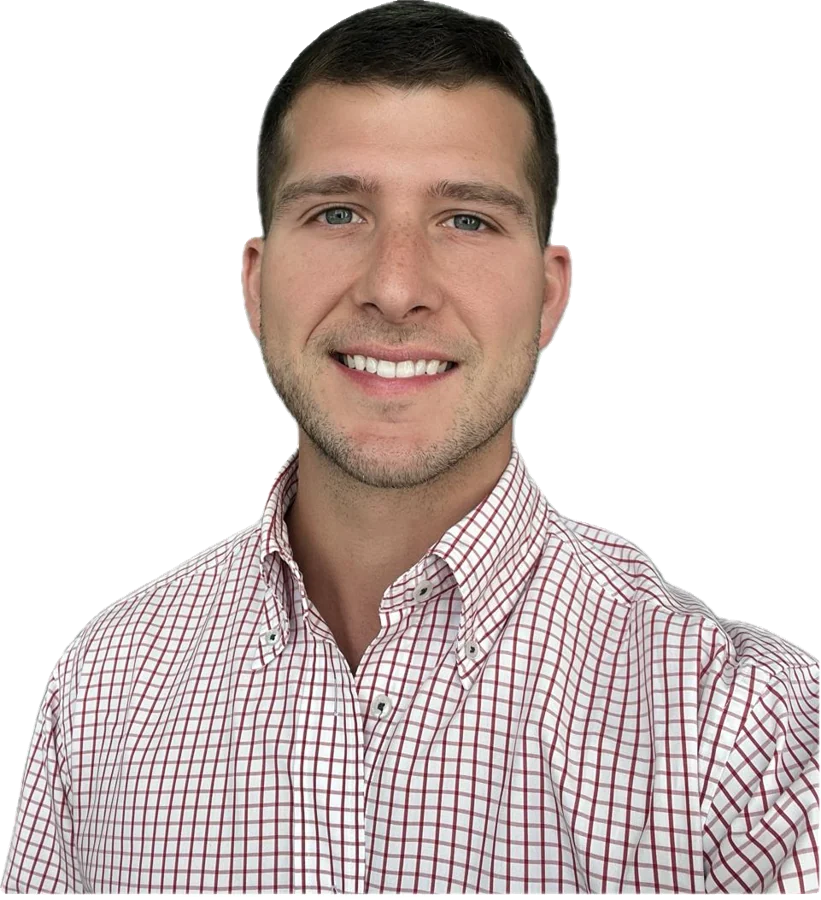
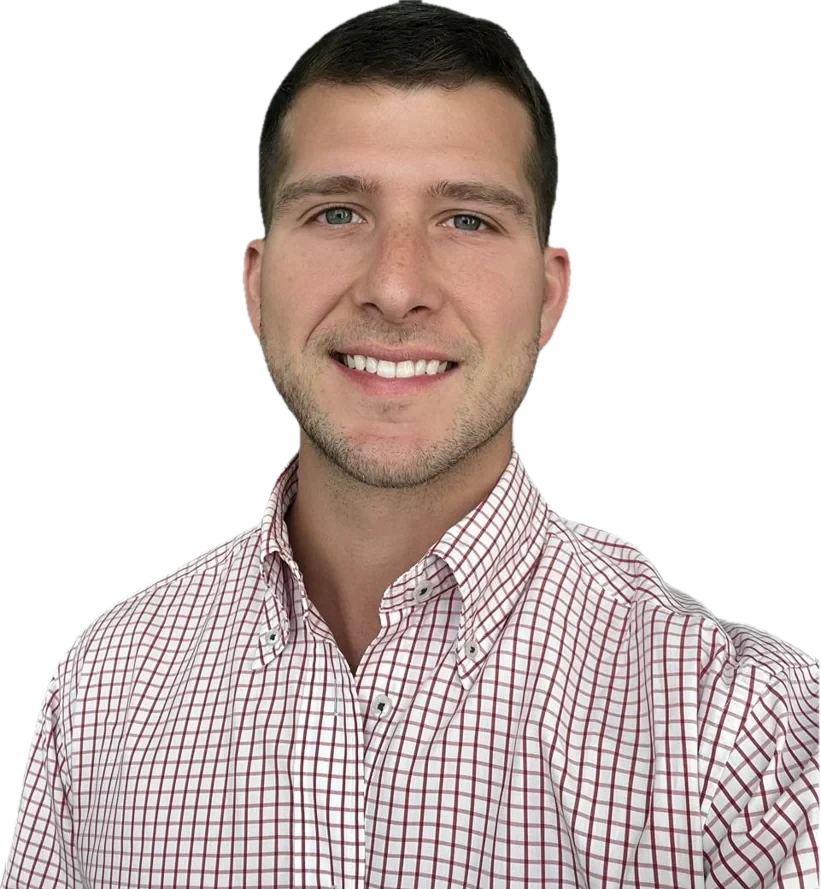
Pulido: margen de $9 vs sano de $15, foto sin halo, pie completo, robots, sitemap y 404
- Ejemplo de $100 con los números de Alonso (ads 20%, devoluciones 5%, comisión 15%) y marca de margen sano
- Recorte de la foto limpio (sin borde blanco) y hombros a sangre en el marco
- Pie con contacto y navegación, enlace para saltar al contenido, titulares balanceados
- robots.txt, sitemap.xml con hreflang y página 404 propia en ES/EN

Claude-Session: https://claude.ai/code/session_011gzkCB5M2z7pKPoQn8zKpx

diff --git a/index.html b/index.html
@@ -32,6 +32,7 @@
 <script defer src="/_vercel/insights/script.js"></script>
 </head>
 <body>
+<a class="skip" href="#inicio">Saltar al contenido</a>
 
 <header class="header">
   <div class="wrap">
@@ -96,7 +97,7 @@
             <use href="#sx-bars" fill="#F58238" clip-path="url(#sx-hero-clip)"></use>
           </g>
         </svg>
-        <img class="portrait__img" src="/assets/alonso.webp" width="821" height="900" alt="Alonso Martini, fundador de Sellify" fetchpriority="high">
+        <img class="portrait__img" src="/assets/alonso.webp" width="821" height="889" alt="Alonso Martini, fundador de Sellify" fetchpriority="high">
       </div>
       <figcaption class="portrait__caption">
         <span><b>Alonso Martini</b>, fundador</span>
@@ -130,17 +131,18 @@
 
     <figure class="pl" aria-labelledby="pl-title">
       <h3 class="pl__title" id="pl-title">De cada $100 que vendes en Amazon, ¿cuánto te queda?</h3>
-      <ol class="pl__rows">
+      <ol class="pl__rows" style="--goal:15">
         <li class="pl__row pl__row--sale" style="--from:0;--to:100"><span class="pl__label">Venta</span><span class="pl__bar" aria-hidden="true"><i></i></span><span class="pl__amt">$100</span></li>
         <li class="pl__row" style="--from:72;--to:100"><span class="pl__label">Costo del producto</span><span class="pl__bar" aria-hidden="true"><i></i></span><span class="pl__amt">−$28</span></li>
         <li class="pl__row" style="--from:57;--to:72"><span class="pl__label">Comisión de Amazon</span><span class="pl__bar" aria-hidden="true"><i></i></span><span class="pl__amt">−$15</span></li>
-        <li class="pl__row" style="--from:43;--to:57"><span class="pl__label">Envío FBA</span><span class="pl__bar" aria-hidden="true"><i></i></span><span class="pl__amt">−$14</span></li>
-        <li class="pl__row" style="--from:30;--to:43"><span class="pl__label">Publicidad</span><span class="pl__bar" aria-hidden="true"><i></i></span><span class="pl__amt">−$13</span></li>
-        <li class="pl__row" style="--from:24;--to:30"><span class="pl__label">Devoluciones y almacenamiento</span><span class="pl__bar" aria-hidden="true"><i></i></span><span class="pl__amt">−$6</span></li>
-        <li class="pl__row pl__row--margin" style="--from:0;--to:24"><span class="pl__label">Lo que te queda</span><span class="pl__bar" aria-hidden="true"><i></i></span><span class="pl__amt">$24</span></li>
+        <li class="pl__row" style="--from:37;--to:57"><span class="pl__label">Envío FBA</span><span class="pl__bar" aria-hidden="true"><i></i></span><span class="pl__amt">−$20</span></li>
+        <li class="pl__row" style="--from:17;--to:37"><span class="pl__label">Publicidad</span><span class="pl__bar" aria-hidden="true"><i></i></span><span class="pl__amt">−$20</span></li>
+        <li class="pl__row" style="--from:12;--to:17"><span class="pl__label">Devoluciones</span><span class="pl__bar" aria-hidden="true"><i></i></span><span class="pl__amt">−$5</span></li>
+        <li class="pl__row" style="--from:9;--to:12"><span class="pl__label">Almacenamiento y otros cargos</span><span class="pl__bar" aria-hidden="true"><i></i></span><span class="pl__amt">−$3</span></li>
+        <li class="pl__row pl__row--margin" style="--from:0;--to:9"><span class="pl__label">Lo que te queda</span><span class="pl__bar" aria-hidden="true"><i></i><span class="pl__goal"><span>Margen sano: $15</span></span></span><span class="pl__amt">$9</span></li>
       </ol>
       <figcaption class="pl__foot">
-        <p class="pl__punch">Amazon te muestra los $100. Nosotros trabajamos para que crezcan los $24.</p>
+        <p class="pl__punch">Amazon te muestra los $100. Te quedan $9, cuando un margen sano ronda los $15. Cerrar esa diferencia es nuestro trabajo.</p>
         <p class="pl__note">Ejemplo ilustrativo de un producto vendido con FBA en Amazon Estados Unidos. El reparto real de cada producto aparece en tu P&amp;L.</p>
       </figcaption>
     </figure>
@@ -363,14 +365,23 @@
 </main>
 
 <footer class="footer">
-  <div class="wrap">
-    <div class="footer__id">
-      <span class="brand__word">SELLIFY</span>
-      <span>© 2026 Sellify Agency. Operado por Cortafuegos LLC.</span>
+  <div class="wrap footer__grid">
+    <div class="footer__brand">
+      <a href="#inicio" class="brand" aria-label="Sellify, inicio"><svg width="16" height="21" viewBox="0 -4 548 708" aria-hidden="true"><use href="#sx-mark"></use></svg><span class="brand__word">SELLIFY</span></a>
+      <p>Agencia de Amazon para marcas que quieren crecer sin perder margen, en Estados Unidos y Europa.</p>
     </div>
-    <nav aria-label="Pie de página">
-      <a href="#casos">Casos</a><a href="#como-funciona">Cómo funciona</a><a href="#preguntas">Preguntas</a><a href="mailto:alonso@sellify-agency.com">Contacto</a>
+    <nav class="footer__col" aria-label="Pie de página">
+      <p class="footer__h">Sitio</p>
+      <a href="#casos">Casos</a><a href="#como-funciona">Cómo funciona</a><a href="#dashboard">Dashboard</a><a href="#preguntas">Preguntas</a>
     </nav>
+    <div class="footer__col">
+      <p class="footer__h">Contacto</p>
+      <a href="https://wa.me/34627071754">WhatsApp +34 627 07 17 54</a><a href="tel:+17868247458">Llamadas +1 786 824 7458</a><a href="mailto:alonso@sellify-agency.com">alonso@sellify-agency.com</a>
+    </div>
+  </div>
+  <div class="wrap footer__legal">
+    <span>© 2026 Sellify Agency. Operado por Cortafuegos LLC.</span>
+    <a href="/en/" hreflang="en" lang="en" data-set-lang="en">English</a>
   </div>
 </footer>
 

diff --git a/en/index.html b/en/index.html
@@ -32,6 +32,7 @@
 <script defer src="/_vercel/insights/script.js"></script>
 </head>
 <body>
+<a class="skip" href="#top">Skip to content</a>
 
 <header class="header">
   <div class="wrap">
@@ -96,7 +97,7 @@
             <use href="#sx-bars" fill="#F58238" clip-path="url(#sx-hero-clip)"></use>
           </g>
         </svg>
-        <img class="portrait__img" src="/assets/alonso.webp" width="821" height="900" alt="Alonso Martini, founder of Sellify" fetchpriority="high">
+        <img class="portrait__img" src="/assets/alonso.webp" width="821" height="889" alt="Alonso Martini, founder of Sellify" fetchpriority="high">
       </div>
       <figcaption class="portrait__caption">
         <span><b>Alonso Martini</b>, founder</span>
@@ -130,17 +131,18 @@
 
     <figure class="pl" aria-labelledby="pl-title">
       <h3 class="pl__title" id="pl-title">Out of every $100 you sell on Amazon, how much do you keep?</h3>
-      <ol class="pl__rows">
+      <ol class="pl__rows" style="--goal:15">
         <li class="pl__row pl__row--sale" style="--from:0;--to:100"><span class="pl__label">Sale</span><span class="pl__bar" aria-hidden="true"><i></i></span><span class="pl__amt">$100</span></li>
         <li class="pl__row" style="--from:72;--to:100"><span class="pl__label">Product cost</span><span class="pl__bar" aria-hidden="true"><i></i></span><span class="pl__amt">−$28</span></li>
         <li class="pl__row" style="--from:57;--to:72"><span class="pl__label">Amazon referral fee</span><span class="pl__bar" aria-hidden="true"><i></i></span><span class="pl__amt">−$15</span></li>
-        <li class="pl__row" style="--from:43;--to:57"><span class="pl__label">FBA fulfillment</span><span class="pl__bar" aria-hidden="true"><i></i></span><span class="pl__amt">−$14</span></li>
-        <li class="pl__row" style="--from:30;--to:43"><span class="pl__label">Advertising</span><span class="pl__bar" aria-hidden="true"><i></i></span><span class="pl__amt">−$13</span></li>
-        <li class="pl__row" style="--from:24;--to:30"><span class="pl__label">Returns and storage</span><span class="pl__bar" aria-hidden="true"><i></i></span><span class="pl__amt">−$6</span></li>
-        <li class="pl__row pl__row--margin" style="--from:0;--to:24"><span class="pl__label">What you keep</span><span class="pl__bar" aria-hidden="true"><i></i></span><span class="pl__amt">$24</span></li>
+        <li class="pl__row" style="--from:37;--to:57"><span class="pl__label">FBA fulfillment</span><span class="pl__bar" aria-hidden="true"><i></i></span><span class="pl__amt">−$20</span></li>
+        <li class="pl__row" style="--from:17;--to:37"><span class="pl__label">Advertising</span><span class="pl__bar" aria-hidden="true"><i></i></span><span class="pl__amt">−$20</span></li>
+        <li class="pl__row" style="--from:12;--to:17"><span class="pl__label">Returns</span><span class="pl__bar" aria-hidden="true"><i></i></span><span class="pl__amt">−$5</span></li>
+        <li class="pl__row" style="--from:9;--to:12"><span class="pl__label">Storage and other fees</span><span class="pl__bar" aria-hidden="true"><i></i></span><span class="pl__amt">−$3</span></li>
+        <li class="pl__row pl__row--margin" style="--from:0;--to:9"><span class="pl__label">What you keep</span><span class="pl__bar" aria-hidden="true"><i></i><span class="pl__goal"><span>Healthy margin: $15</span></span></span><span class="pl__amt">$9</span></li>
       </ol>
       <figcaption class="pl__foot">
-        <p class="pl__punch">Amazon shows you the $100. We work to grow the $24.</p>
+        <p class="pl__punch">Amazon shows you the $100. You keep $9, when a healthy margin is around $15. Closing that gap is our job.</p>
         <p class="pl__note">Illustrative example of a product sold through FBA on Amazon US. Each product's real breakdown shows up in your P&amp;L.</p>
       </figcaption>
     </figure>
@@ -363,14 +365,23 @@
 </main>
 
 <footer class="footer">
-  <div class="wrap">
-    <div class="footer__id">
-      <span class="brand__word">SELLIFY</span>
-      <span>© 2026 Sellify Agency. Operated by Cortafuegos LLC.</span>
+  <div class="wrap footer__grid">
+    <div class="footer__brand">
+      <a href="#top" class="brand" aria-label="Sellify, home"><svg width="16" height="21" viewBox="0 -4 548 708" aria-hidden="true"><use href="#sx-mark"></use></svg><span class="brand__word">SELLIFY</span></a>
+      <p>Amazon agency for brands that want to grow without giving up margin, in the US and Europe.</p>
     </div>
-    <nav aria-label="Footer">
-      <a href="#results">Results</a><a href="#how-it-works">How it works</a><a href="#faq">FAQ</a><a href="mailto:alonso@sellify-agency.com">Contact</a>
+    <nav class="footer__col" aria-label="Footer">
+      <p class="footer__h">Site</p>
+      <a href="#results">Results</a><a href="#how-it-works">How it works</a><a href="#dashboard">Dashboard</a><a href="#faq">FAQ</a>
     </nav>
+    <div class="footer__col">
+      <p class="footer__h">Contact</p>
+      <a href="https://wa.me/34627071754">WhatsApp +34 627 07 17 54</a><a href="tel:+17868247458">Calls +1 786 824 7458</a><a href="mailto:alonso@sellify-agency.com">alonso@sellify-agency.com</a>
+    </div>
+  </div>
+  <div class="wrap footer__legal">
+    <span>© 2026 Sellify Agency. Operated by Cortafuegos LLC.</span>
+    <a href="/" hreflang="es" lang="es" data-set-lang="es">Español</a>
   </div>
 </footer>
 

diff --git a/site.css b/site.css
@@ -17,7 +17,10 @@ img,svg,video{display:block;max-width:100%}
 a{color:var(--text)}
 a:hover{color:var(--orange-light)}
 :focus-visible{outline:2px solid var(--orange-light);outline-offset:3px;border-radius:4px}
-h1,h2,h3{font-family:var(--display);font-weight:500;margin:0;letter-spacing:-0.03em}
+h1,h2,h3{font-family:var(--display);font-weight:500;margin:0;letter-spacing:-0.03em;text-wrap:balance}
+::selection{background:var(--orange);color:var(--bg)}
+.skip{position:absolute;left:16px;top:-60px;z-index:60;background:var(--orange);color:var(--bg);padding:10px 16px;border-radius:8px;font-weight:600;text-decoration:none}
+.skip:focus{top:12px;color:var(--bg)}
 p,ul,ol,dl,dd,figure,blockquote{margin:0}
 ul,ol{padding:0;list-style:none}
 .wrap{max-width:var(--wrap);margin:0 auto;padding:0 var(--gutter)}
@@ -74,8 +77,8 @@ ul,ol{padding:0;list-style:none}
 
 .portrait{width:100%;max-width:480px;justify-self:end}
 .portrait__frame{position:relative;aspect-ratio:4/5;border-radius:24px;background:var(--raised);overflow:hidden}
-.portrait__mark{position:absolute;top:4%;left:50%;width:80%;transform:translateX(-50%)}
-.portrait__img{position:absolute;bottom:0;left:50%;transform:translateX(-50%);width:88%;height:auto}
+.portrait__mark{position:absolute;top:2%;left:50%;width:82%;transform:translateX(-50%)}
+.portrait__img{position:absolute;bottom:0;right:-3%;width:103%;max-width:none;height:auto}
 .portrait__caption{display:flex;align-items:center;justify-content:space-between;gap:16px;margin-top:16px;font-size:14px;color:var(--text-2)}
 .portrait__caption b{color:var(--text);font-weight:500}
 
@@ -112,6 +115,8 @@ ul,ol{padding:0;list-style:none}
 .pl__row--margin .pl__label{color:var(--text);font-weight:500;font-size:16px}
 .pl__row--margin .pl__bar{height:40px}
 .pl__row--margin .pl__bar i{background:var(--orange)}
+.pl__goal{position:absolute;top:0;bottom:0;left:calc(var(--to) * 1%);width:calc((var(--goal) - var(--to)) * 1%);border:1.5px dashed var(--orange);border-left:0;border-radius:0 3px 3px 0}
+.pl__goal span{position:absolute;left:calc(100% + 12px);top:50%;transform:translateY(-50%);white-space:nowrap;font-size:13px;font-weight:500;color:var(--orange-light)}
 .pl__row--margin .pl__amt{color:var(--orange);font-size:32px}
 .pl__foot{display:grid;grid-template-columns:minmax(0,1fr) minmax(0,22em);gap:16px 64px;align-items:start;margin-top:28px}
 .pl__punch{font:500 clamp(20px,2vw,24px)/1.3 var(--display);letter-spacing:-0.015em;max-width:26em}
@@ -235,13 +240,17 @@ ul,ol{padding:0;list-style:none}
 .form__note{font-size:13px;color:var(--text-3)}
 
 /* Pie */
-.footer{border-top:1px solid var(--line)}
-.footer .wrap{display:flex;flex-wrap:wrap;align-items:center;justify-content:space-between;gap:16px 32px;padding-top:32px;padding-bottom:32px;font-size:13px;color:var(--text-3)}
-.footer__id{display:flex;align-items:center;gap:12px}
-.footer__id .brand__word{font-size:14px;color:var(--text)}
-.footer nav{display:flex;flex-wrap:wrap;gap:8px 24px}
+.footer{border-top:1px solid var(--line);background:var(--surface)}
+.footer__grid{display:grid;grid-template-columns:minmax(0,2fr) minmax(0,1fr) minmax(0,1.2fr);gap:40px 64px;padding-top:64px;padding-bottom:48px}
+.footer__brand{display:flex;flex-direction:column;gap:18px}
+.footer__brand .brand__word{font-size:16px}
+.footer__brand p{font-size:14px;line-height:1.6;color:var(--text-3);max-width:28em}
+.footer__col{display:flex;flex-direction:column;gap:10px;font-size:14px}
+.footer__h{font-size:13px;color:var(--text);font-weight:500;margin-bottom:4px}
 .footer a{color:var(--text-3);text-decoration:none}
 .footer a:hover{color:var(--orange-light)}
+.footer__legal{position:relative;display:flex;flex-wrap:wrap;justify-content:space-between;gap:12px 32px;padding-top:24px;padding-bottom:28px;font-size:13px;color:var(--text-3)}
+.footer__legal::before{content:"";position:absolute;top:0;left:var(--gutter);right:var(--gutter);border-top:1px solid var(--line)}
 
 /* Video */
 .video-dialog{border:0;padding:0;background:transparent;max-width:min(92vw,440px);width:100%}
@@ -252,7 +261,9 @@ ul,ol{padding:0;list-style:none}
 @media (max-width:960px){
   .hero__grid,.split,.feature,.audit,.index,.founder{grid-template-columns:minmax(0,1fr);gap:48px}
   .index__head{position:static}
-  .portrait{justify-self:start}
+  .portrait{justify-self:start;max-width:400px}
+  .footer__grid{grid-template-columns:minmax(0,1fr) minmax(0,1fr)}
+  .footer__brand{grid-column:1/-1}
   .creds__inner{grid-template-columns:minmax(0,1fr)}
   .pl__foot{grid-template-columns:minmax(0,1fr)}
 }
@@ -272,6 +283,8 @@ ul,ol{padding:0;list-style:none}
   .creds__stats dd{font-size:12px}
   .creds__brands{font-size:17px;gap:6px 24px}
   .problems{grid-template-columns:minmax(0,1fr)}
+  .portrait{max-width:340px}
+  .footer__grid{grid-template-columns:minmax(0,1fr);padding-top:48px}
   .rows li{grid-template-columns:minmax(0,1fr)}
   .ledger li{grid-template-columns:80px minmax(0,1fr);gap:16px 20px;align-items:start}
   .ledger__img{width:80px;height:80px;padding:8px}

diff --git a/404.html b/404.html
@@ -1,0 +1,53 @@
+<!doctype html>
+<html lang="es">
+<head>
+<meta charset="utf-8">
+<meta name="viewport" content="width=device-width, initial-scale=1">
+<title>Página no encontrada | Sellify</title>
+<meta name="robots" content="noindex">
+<meta name="theme-color" content="#1A1A1A">
+<link rel="icon" href="/assets/favicon.svg" type="image/svg+xml">
+<link rel="preconnect" href="https://fonts.googleapis.com">
+<link rel="preconnect" href="https://fonts.gstatic.com" crossorigin>
+<link rel="stylesheet" href="https://fonts.googleapis.com/css2?family=Space+Grotesk:wght@400;500;700&amp;family=Inter:wght@400;500;600&amp;display=swap">
+<link rel="stylesheet" href="/site.css">
+<style>
+  .nf{min-height:100vh;display:flex;flex-direction:column}
+  .nf__main{flex:1;display:flex;align-items:center;padding:96px 0}
+  .nf__grid{display:grid;grid-template-columns:minmax(0,1fr) minmax(0,1fr);gap:48px 80px;align-items:start}
+  .nf__block{display:flex;flex-direction:column;gap:20px}
+  .nf__block p{color:var(--text-2);max-width:28em}
+  .nf__block .btn{align-self:flex-start;margin-top:8px}
+  @media (max-width:760px){.nf__grid{grid-template-columns:minmax(0,1fr)}}
+</style>
+</head>
+<body class="nf">
+<header class="header">
+  <div class="wrap">
+    <a href="/" class="brand" aria-label="Sellify, inicio">
+      <svg width="20" height="26" viewBox="0 -4 548 708" aria-hidden="true">
+        <defs><clipPath id="nf-clip"><polygon points="-20,-20 166,-20 336,258 53,720 -20,720"></polygon></clipPath>
+        <g id="nf-bars"><rect x="0" y="204.5" width="548" height="107" rx="12"></rect><rect x="3" y="204.5" width="542" height="107" rx="12" transform="rotate(58.5 274 258)"></rect><rect x="3" y="204.5" width="542" height="107" rx="12" transform="rotate(-58.5 274 258)"></rect></g></defs>
+        <use href="#nf-bars" fill="#999B9E"></use><use href="#nf-bars" fill="#F58238" clip-path="url(#nf-clip)"></use>
+        <rect x="88" y="610" width="370" height="90" rx="4" fill="#F58238"></rect>
+      </svg>
+      <span class="brand__word">SELLIFY</span>
+    </a>
+  </div>
+</header>
+<main class="nf__main">
+  <div class="wrap nf__grid">
+    <div class="nf__block">
+      <h1 class="h2">Esta página no existe.</h1>
+      <p>Puede que el enlace esté mal escrito o que la página se haya movido.</p>
+      <a class="btn" href="/">Ir al inicio</a>
+    </div>
+    <div class="nf__block" lang="en">
+      <h2 class="h2">This page doesn't exist.</h2>
+      <p>The link may be mistyped, or the page may have moved.</p>
+      <a class="btn btn--ghost" href="/en/">Go to the homepage</a>
+    </div>
+  </div>
+</main>
+</body>
+</html>

diff --git a/site.js b/site.js
@@ -34,7 +34,12 @@
   var dialog = document.getElementById('video-dialog');
   var video = document.getElementById('video-el');
   if (card && dialog && video) {
-    var openVideo = function(e){ if (e) e.preventDefault(); dialog.showModal(); video.play(); };
+    var openVideo = function(e){
+      if (e) e.preventDefault();
+      dialog.showModal();
+      var playing = video.play();
+      if (playing && playing.catch) playing.catch(function(){}); // si se cierra antes de arrancar, no es un error
+    };
     fetch('/assets/tatiana-testimonio.mp4', { method: 'HEAD' }).then(function(r){
       if (!r.ok) return;
       card.disabled = false;
